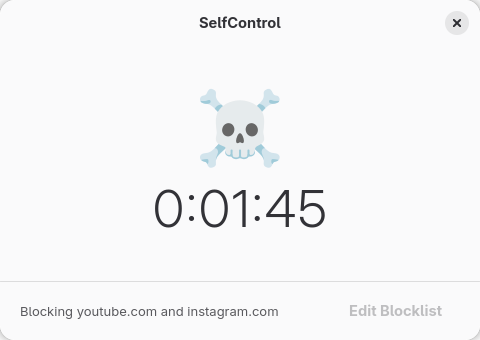
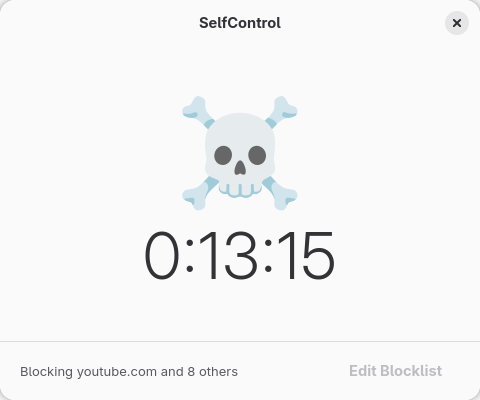
Make skull and countdown larger with Pango markup
CSS font-size doesn't reliably scale emojis. Use Pango markup
(size="80000") for the skull and bump countdown to 64px. Taller
window (400px) to fit.

diff --git a/data/style.css b/data/style.css
@@ -9,13 +9,8 @@
     font-weight: bold;
 }
 
-.skull-icon {
-    font-size: 72px;
-    margin-bottom: 4px;
-}
-
 .countdown-label {
-    font-size: 52px;
+    font-size: 64px;
     font-weight: 300;
     letter-spacing: 2px;
 }

diff --git a/selfcontrol/window.py b/selfcontrol/window.py
@@ -44,7 +44,7 @@ def blocklist_summary(domains):
 
 class SelfControlWindow(Adw.ApplicationWindow):
     def __init__(self, app):
-        super().__init__(application=app, title="SelfControl", default_width=480, default_height=340, resizable=False)
+        super().__init__(application=app, title="SelfControl", default_width=480, default_height=400, resizable=False)
 
         self._client = None
         self._blocking = False
@@ -110,12 +110,12 @@ class SelfControlWindow(Adw.ApplicationWindow):
         self._blocking_box.set_valign(Gtk.Align.CENTER)
         self._blocking_box.set_visible(False)
 
-        self._skull_label = Gtk.Label(label="\u2620")
-        self._skull_label.add_css_class("skull-icon")
+        self._skull_label = Gtk.Label()
+        self._skull_label.set_markup('<span size="80000">\u2620</span>')
         self._skull_label.set_halign(Gtk.Align.CENTER)
         self._blocking_box.append(self._skull_label)
 
-        self._countdown_label = Gtk.Label(label="0:00:00")
+        self._countdown_label = Gtk.Label()
         self._countdown_label.add_css_class("countdown-label")
         self._countdown_label.set_halign(Gtk.Align.CENTER)
         self._blocking_box.append(self._countdown_label)
